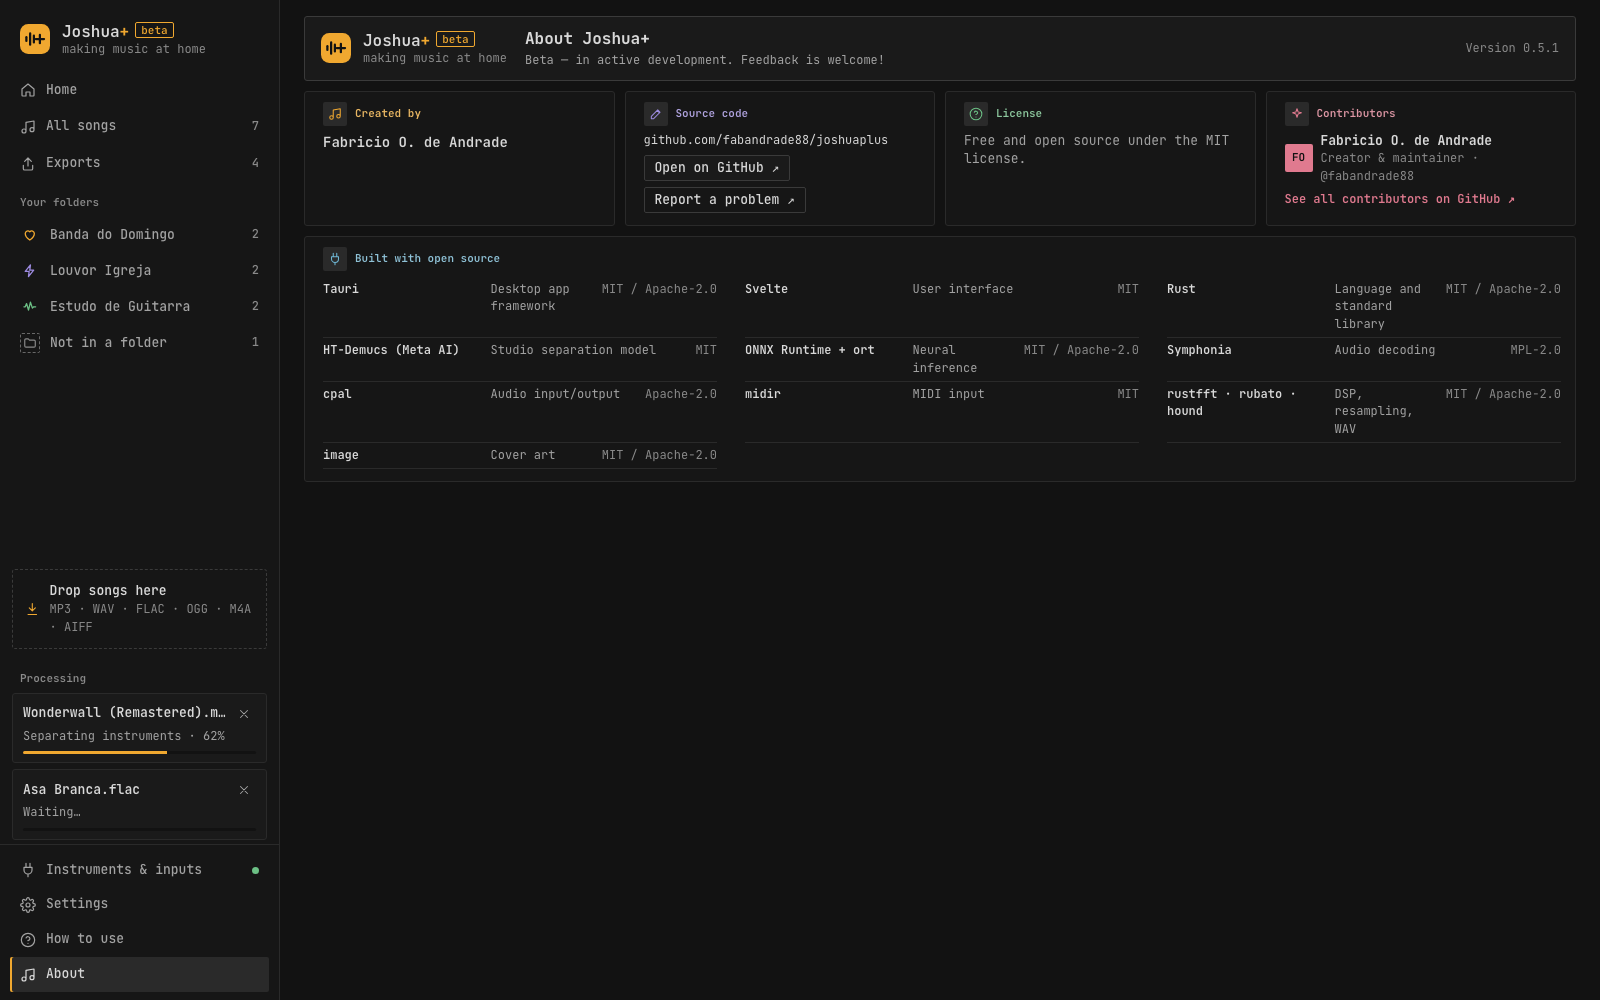
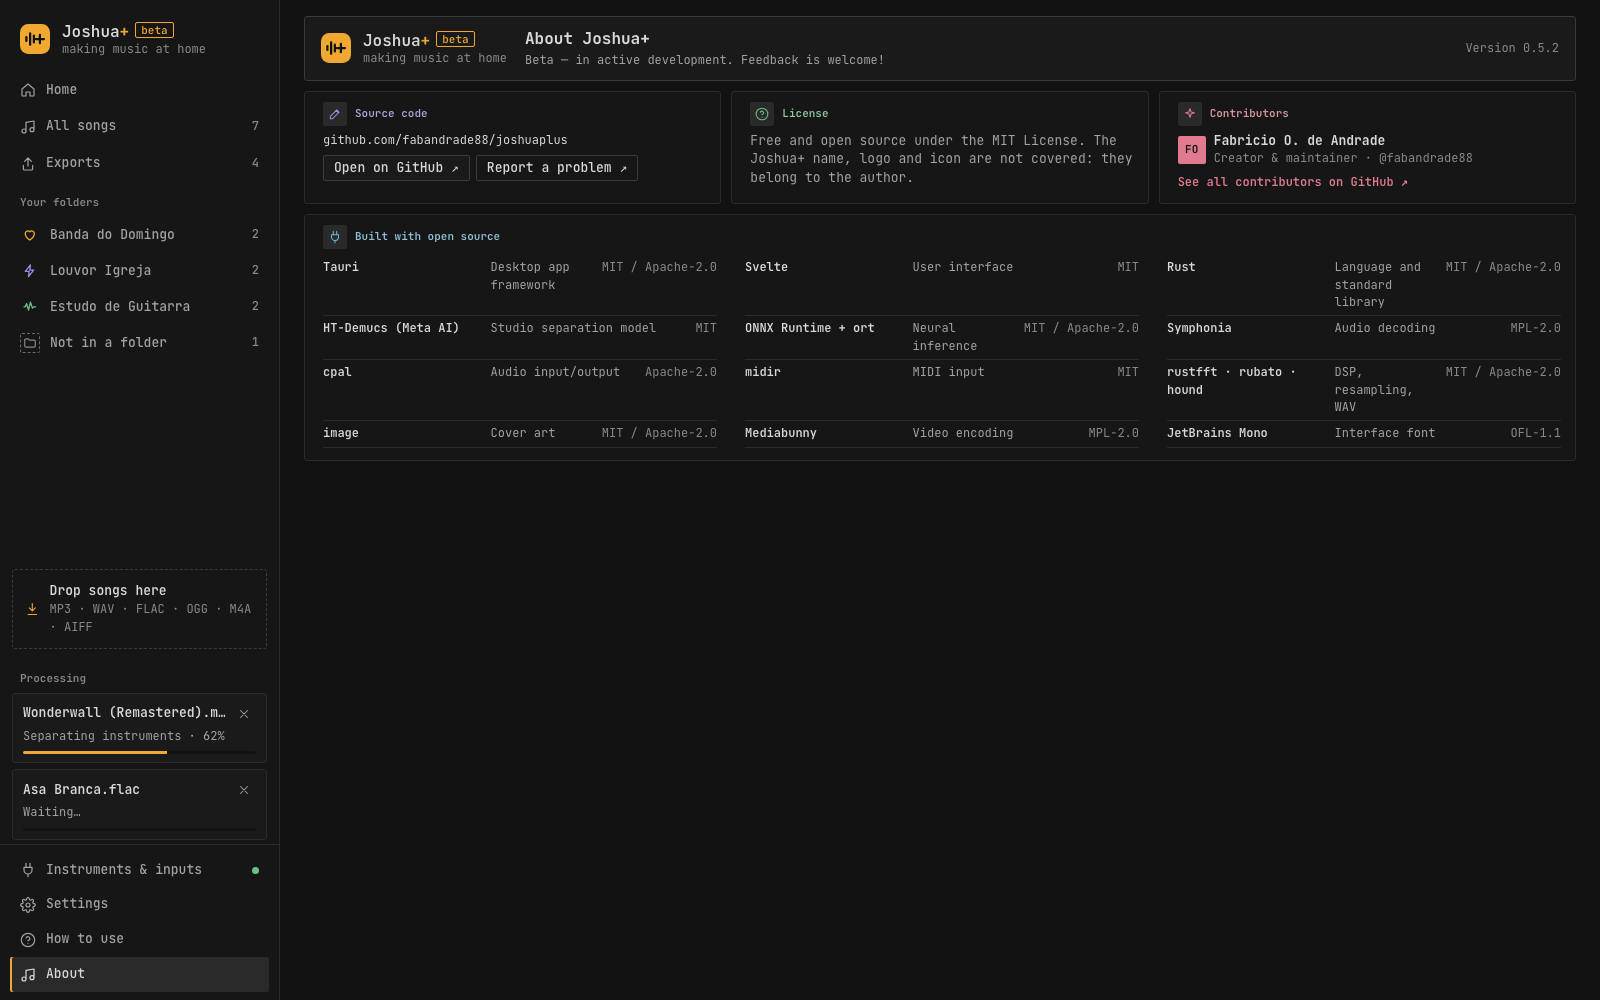
about: drop the 'Created by' card; authorship stays in Contributors

diff --git a/app/src/lib/components/AboutView.svelte b/app/src/lib/components/AboutView.svelte
@@ -38,14 +38,6 @@
   </header>
 
   <div class="grid">
-    <section class="card" style="--c: var(--accent)" aria-labelledby="about-created">
-      <div class="card-head">
-        <span class="badge"><Icon name="music" size={14} /></span>
-        <h2 id="about-created">{i18n.t("about.createdBy")}</h2>
-      </div>
-      <p class="big">Fabricio O. de Andrade</p>
-    </section>
-
     <section class="card" style="--c: var(--folder-violet)" aria-labelledby="about-repo">
       <div class="card-head">
         <span class="badge"><Icon name="edit" size={14} /></span>
@@ -143,7 +135,7 @@
   }
   .grid {
     display: grid;
-    grid-template-columns: repeat(4, minmax(0, 1fr));
+    grid-template-columns: repeat(3, minmax(0, 1fr));
     gap: 10px;
   }
   .card {
@@ -183,11 +175,6 @@
     margin: 0;
     font-size: var(--fs-body);
     color: var(--text-dim);
-  }
-  .card .big {
-    font-size: var(--fs-emph);
-    font-weight: 600;
-    color: var(--text);
   }
   code {
     font-family: var(--mono);

diff --git a/app/src/lib/i18n/pt-BR.ts b/app/src/lib/i18n/pt-BR.ts
@@ -414,7 +414,6 @@ export const ptBR: Messages = {
   "gear.directMonitorVolume": "Volume na interface",
   "about.title": "Sobre o Joshua+",
   "about.beta": "Beta — em desenvolvimento ativo. Sugestões são bem-vindas!",
-  "about.createdBy": "Criado por",
   "about.repo": "Código-fonte",
   "about.openRepo": "Abrir no GitHub",
   "about.contributors": "Contribuidores",

diff --git a/app/src/lib/i18n/de.ts b/app/src/lib/i18n/de.ts
@@ -414,7 +414,6 @@ export const de: Messages = {
   "gear.directMonitorVolume": "Regler am Interface",
   "about.title": "Über Joshua+",
   "about.beta": "Beta – in aktiver Entwicklung. Feedback ist willkommen!",
-  "about.createdBy": "Erstellt von",
   "about.repo": "Quellcode",
   "about.openRepo": "Auf GitHub öffnen",
   "about.contributors": "Mitwirkende",

diff --git a/app/src/lib/i18n/en.ts b/app/src/lib/i18n/en.ts
@@ -412,7 +412,6 @@ export const en = {
   "gear.directMonitorVolume": "Level on interface",
   "about.title": "About Joshua+",
   "about.beta": "Beta — in active development. Feedback is welcome!",
-  "about.createdBy": "Created by",
   "about.repo": "Source code",
   "about.openRepo": "Open on GitHub",
   "about.contributors": "Contributors",
